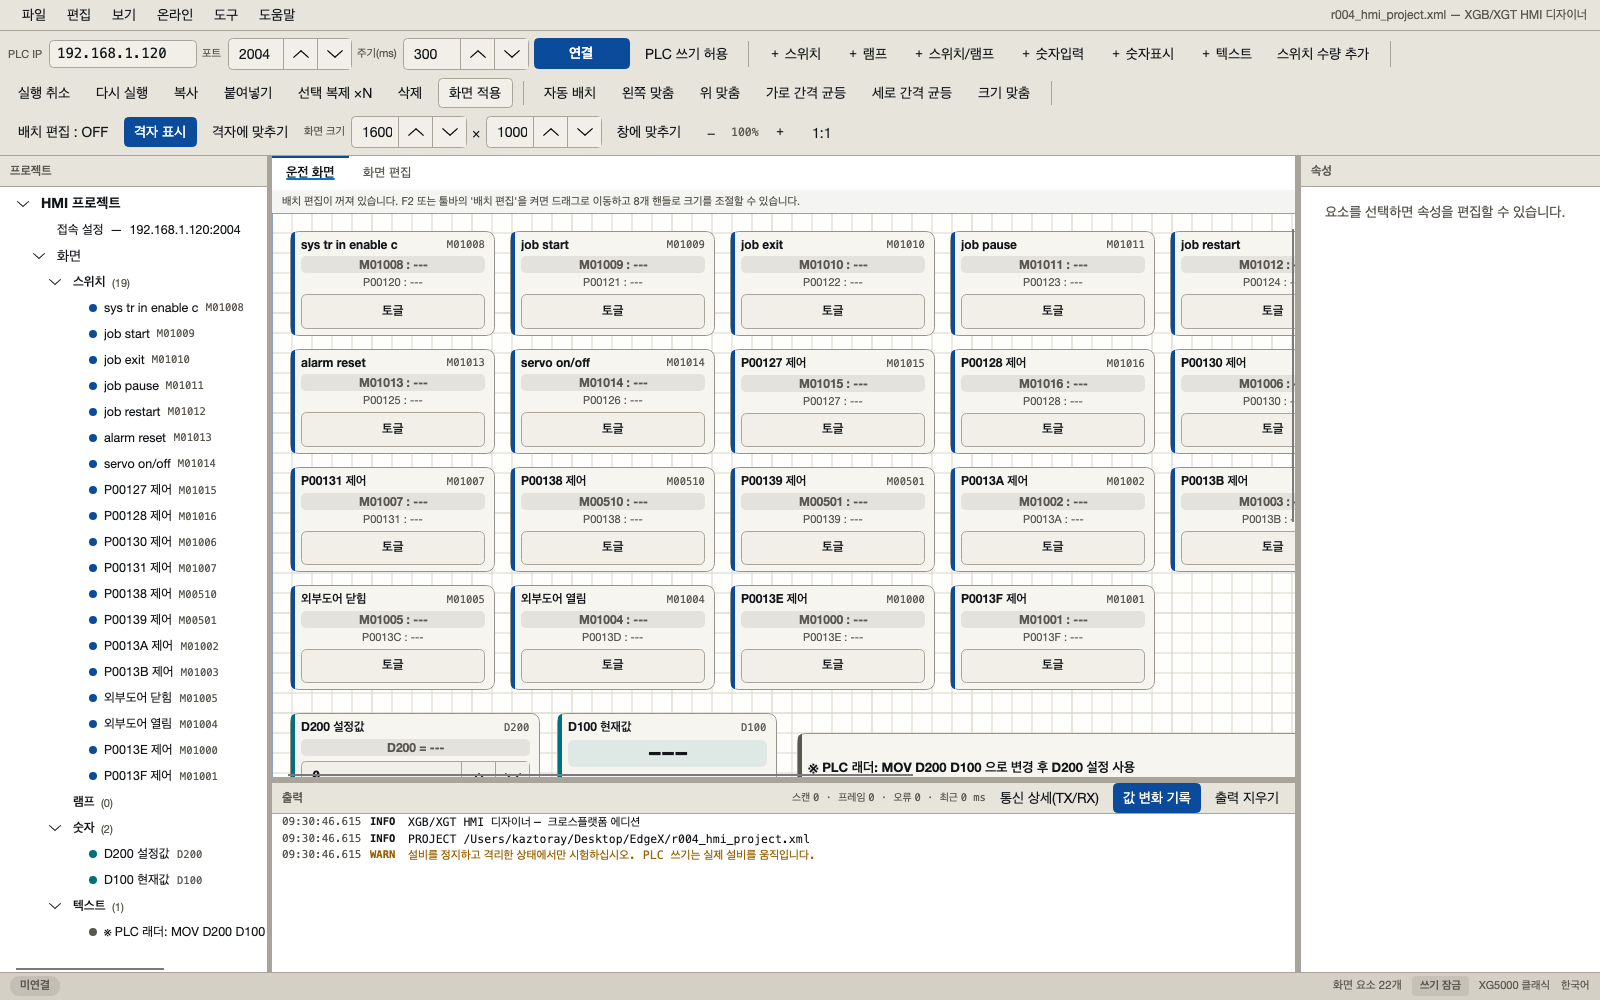
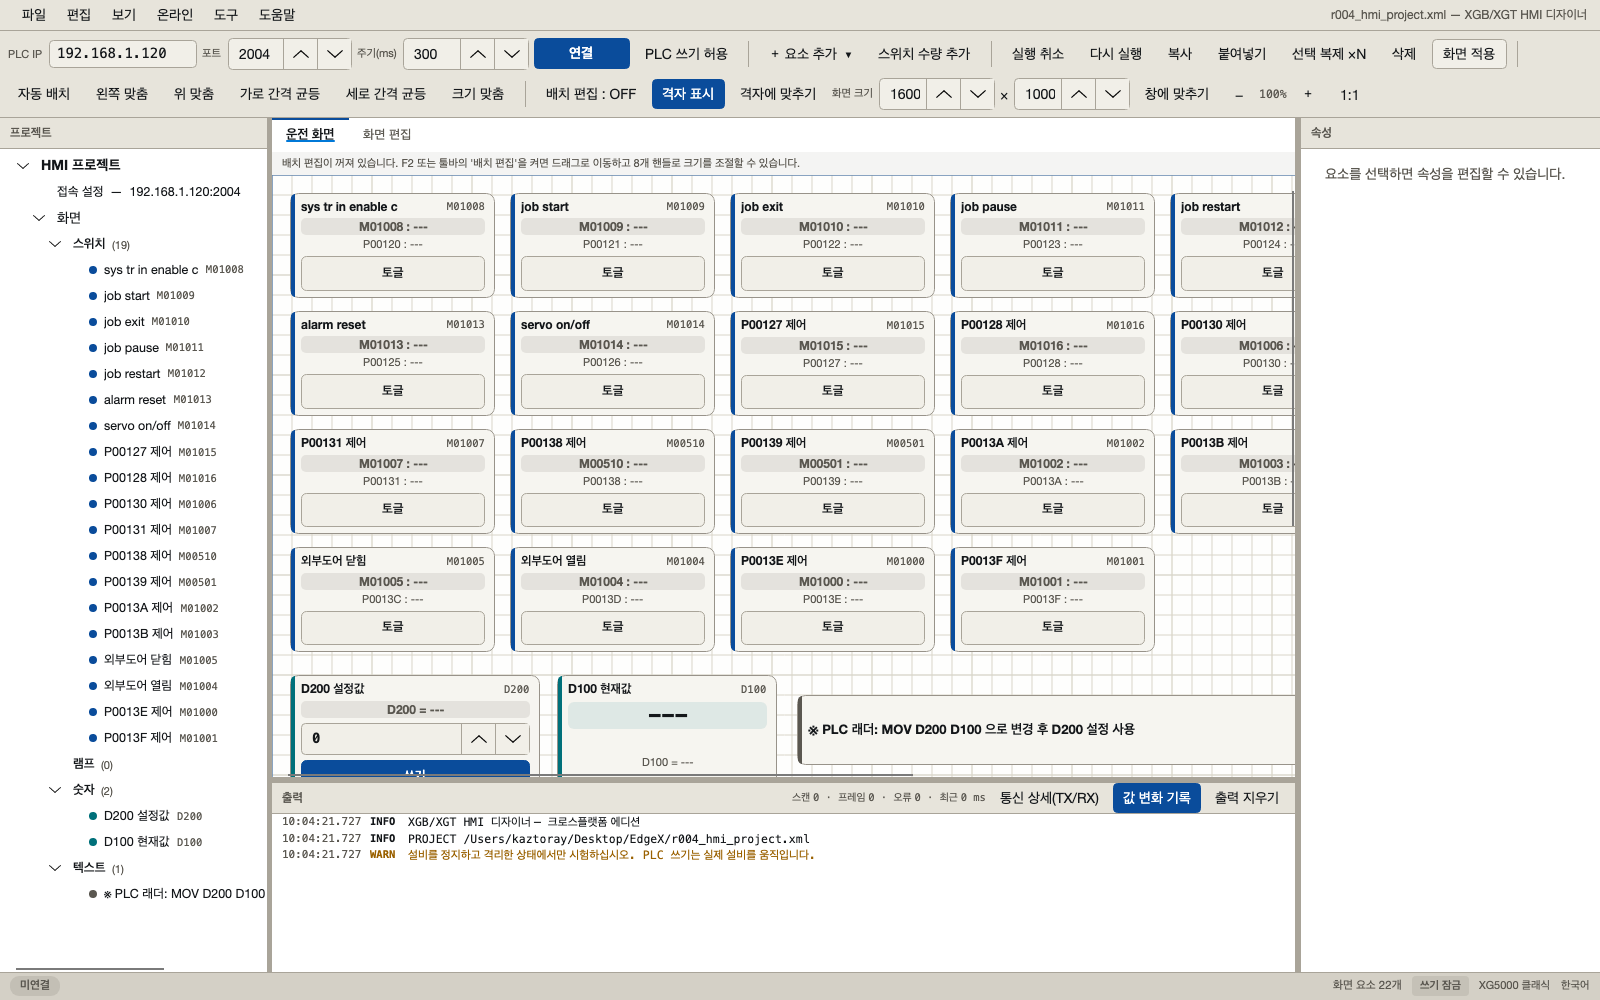
툴바의 종류별 추가 버튼 6개를 '＋ 요소 추가' 하나로 합침
＋스위치 ＋램프 ＋스위치/램프 ＋숫자입력 ＋숫자표시 ＋텍스트 가 툴바를
한 줄 가득 차지하고 있었다. 누르면 목록이 열리는 버튼 하나로 바꿨다.
1600 폭 기준으로 툴바가 세 줄에서 두 줄로 줄어든다.

- Ui.menuButton 추가. 테마 스타일(Button.tool)을 그대로 쓰려고
  DropDownButton 대신 Flyout 을 단 보통 버튼으로 만들었다.
- 목록은 ItemKind.all 을 도므로 종류가 늘면 저절로 따라온다.
- 편집 메뉴의 종류별 추가 항목은 그대로 둔다.
- cmd.addElement 키를 20개 언어에 추가했다.

빌드 경고 0 / 오류 0, 테스트 52개 통과. 스크린샷 재생성.

Changed region(s): [[0.0, 0.031, 1.0, 0.93], [0.1875, 0.806, 0.2188, 0.868]]

diff --git a/README.md b/README.md
@@ -60,7 +60,7 @@ XG5000 계열 도킹 배치를 따릅니다.
 
 ```
 ┌ 메뉴 (파일 / 편집 / 보기 / 온라인 / 도구 / 도움말) ───────────────────────┐
-├ 툴바 (접속 · 요소 추가 · 편집 · 배치/격자/배율) ─────────────────────────┤
+├ 툴바 (접속 · ＋요소 추가 ▾ · 편집 · 정렬 · 배치/격자/배율) ──────────────┤
 │ 프로젝트 트리 │ 문서 탭 [운전 화면 | 화면 편집]            │ 속성       │
 │ (요소 목록)   ├──────────────────────────────────────────┤ (선택 요소 │
 │               │ 출력 창 (통신 로그)                        │  전체 편집)│
@@ -77,6 +77,8 @@ XG5000 계열 도킹 배치를 따릅니다.
 * **출력 창** — 통신 로그. `시각 · 등급(INFO/OK/WARN/ERR/TRC) · 내용` 3단으로 보여 줍니다. 자세한 내용은 아래 참조.
 
 ### 요소 종류 (형식)
+
+툴바의 **`＋ 요소 추가 ▾`** 를 누르면 목록이 열립니다. 편집 메뉴에도 같은 항목이 있습니다.
 
 | 형식 | 주소 | 내용 |
 |---|---|---|
